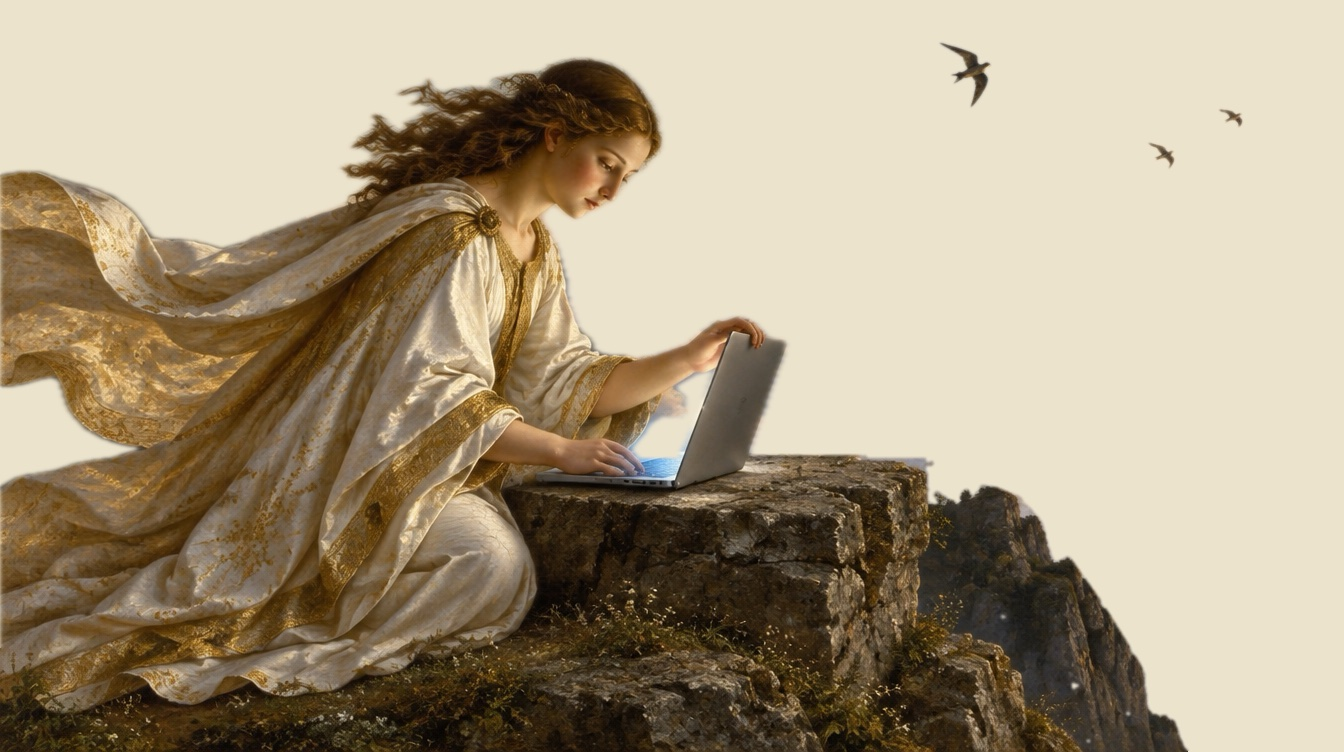
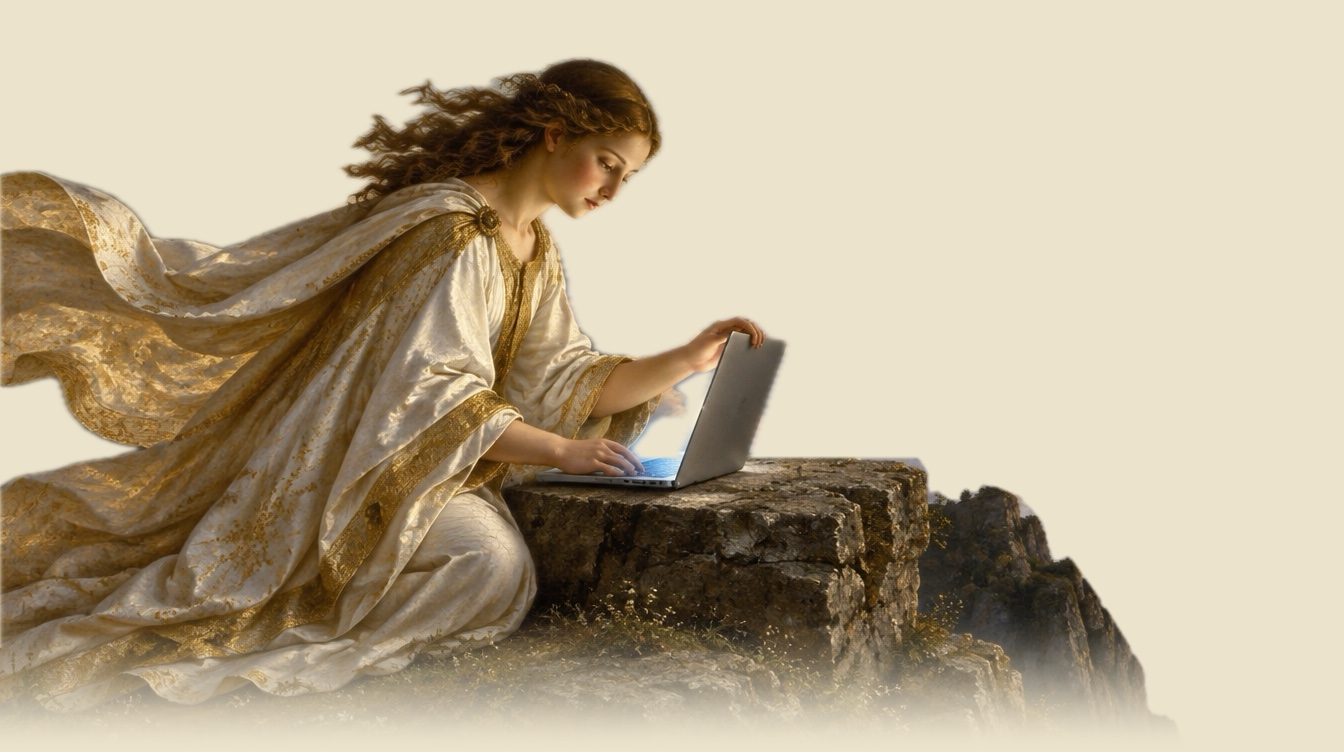
Start: the two swallows fly; the foot of the cut-out fades into the paper
The swallows are no longer baked into the picture: two of the site's animated swallows (flapping, rising
with the scroll at half speed) fly over it. The mask's pinholes in the cliff are filled and the bottom
of the cut-out fades into the paper instead of ending on a straight line; the steps follow close under it.

diff --git a/industries.html b/industries.html
@@ -15,7 +15,7 @@
 <link rel="preconnect" href="https://fonts.googleapis.com">
 <link rel="preconnect" href="https://fonts.gstatic.com" crossorigin>
 <link rel="stylesheet" href="https://fonts.googleapis.com/css2?family=Inter+Tight:wght@500;600;700&family=Inter:wght@400;500;600&family=Instrument+Serif:ital@0;1&family=Pinyon+Script&display=swap">
-<link rel="stylesheet" href="assets/css/style.css?v=e8194b63">
+<link rel="stylesheet" href="assets/css/style.css?v=013b810d">
 <link rel="stylesheet" href="assets/css/motion.css?v=246abe92">
 <script>try{if('scrollRestoration' in history)history.scrollRestoration='manual';}catch(e){}</script>
 
@@ -260,7 +260,7 @@
     <div class="ch__end"><span class="rule"></span><a class="back" href="#top">Back to top</a></div>
   </div>
 </section><section class="ch ch--cut" id="start" data-ch data-ink aria-labelledby="start-t">
-  <div class="ch__bg" data-ch-bg><img class="paint" src="assets/img/paint/summit-cut.jpg?v=df9d4488" alt="A Renaissance woman in a gold-trimmed cloak working on a laptop on a rock ledge, swallows flying above" width="1344" height="752" loading="lazy" decoding="async"></div>
+  <div class="ch__bg" data-ch-bg><img class="paint" src="assets/img/paint/summit-cut.jpg?v=627cc629" alt="A Renaissance woman in a gold-trimmed cloak working on a laptop on a rock ledge, swallows flying above" width="1344" height="752" loading="lazy" decoding="async"><div class="flock" aria-hidden="true"><span class="bird" style="left:73%;top:12%;width:108px;--fd:0s" data-bird="0.5"><img class="bird__up" src="assets/img/birds/swallow-up.png?v=240c85b9" alt="" width="420" height="420" loading="lazy" decoding="async"><img class="bird__down" src="assets/img/birds/swallow-down.png?v=91aaacf5" alt="" width="420" height="420" loading="lazy" decoding="async"></span><span class="bird" style="left:84%;top:21%;width:69px;--fd:0.18s" data-bird="0.5"><img class="bird__up" src="assets/img/birds/swallow-up.png?v=240c85b9" alt="" width="420" height="420" loading="lazy" decoding="async"><img class="bird__down" src="assets/img/birds/swallow-down.png?v=91aaacf5" alt="" width="420" height="420" loading="lazy" decoding="async"></span></div></div>
   <div class="ch__open">
     <h2 class="h1 ch__word" id="start-t" data-word>Start</h2>
     <p class="n1 ch__lead"><span class="swash">T</span>ell us what you need. We'll look at your current site, tell you what we'd change, and say honestly whether we're the right fit.</p>

diff --git a/projects.html b/projects.html
@@ -15,7 +15,7 @@
 <link rel="preconnect" href="https://fonts.googleapis.com">
 <link rel="preconnect" href="https://fonts.gstatic.com" crossorigin>
 <link rel="stylesheet" href="https://fonts.googleapis.com/css2?family=Inter+Tight:wght@500;600;700&family=Inter:wght@400;500;600&family=Instrument+Serif:ital@0;1&family=Pinyon+Script&display=swap">
-<link rel="stylesheet" href="assets/css/style.css?v=e8194b63">
+<link rel="stylesheet" href="assets/css/style.css?v=013b810d">
 <link rel="stylesheet" href="assets/css/motion.css?v=246abe92">
 <script>try{if('scrollRestoration' in history)history.scrollRestoration='manual';}catch(e){}</script>
 
@@ -177,7 +177,7 @@
     <div class="ch__end"><span class="rule"></span><a class="back" href="#top">Back to top</a></div>
   </div>
 </section><section class="ch ch--cut" id="start" data-ch data-ink aria-labelledby="start-t">
-  <div class="ch__bg" data-ch-bg><img class="paint" src="assets/img/paint/summit-cut.jpg?v=df9d4488" alt="A Renaissance woman in a gold-trimmed cloak working on a laptop on a rock ledge, swallows flying above" width="1344" height="752" loading="lazy" decoding="async"></div>
+  <div class="ch__bg" data-ch-bg><img class="paint" src="assets/img/paint/summit-cut.jpg?v=627cc629" alt="A Renaissance woman in a gold-trimmed cloak working on a laptop on a rock ledge, swallows flying above" width="1344" height="752" loading="lazy" decoding="async"><div class="flock" aria-hidden="true"><span class="bird" style="left:73%;top:12%;width:108px;--fd:0s" data-bird="0.5"><img class="bird__up" src="assets/img/birds/swallow-up.png?v=240c85b9" alt="" width="420" height="420" loading="lazy" decoding="async"><img class="bird__down" src="assets/img/birds/swallow-down.png?v=91aaacf5" alt="" width="420" height="420" loading="lazy" decoding="async"></span><span class="bird" style="left:84%;top:21%;width:69px;--fd:0.18s" data-bird="0.5"><img class="bird__up" src="assets/img/birds/swallow-up.png?v=240c85b9" alt="" width="420" height="420" loading="lazy" decoding="async"><img class="bird__down" src="assets/img/birds/swallow-down.png?v=91aaacf5" alt="" width="420" height="420" loading="lazy" decoding="async"></span></div></div>
   <div class="ch__open">
     <h2 class="h1 ch__word" id="start-t" data-word>Start</h2>
     <p class="n1 ch__lead"><span class="swash">T</span>ell us what you need. We'll look at your current site, tell you what we'd change, and say honestly whether we're the right fit.</p>

diff --git a/assets/css/style.css b/assets/css/style.css
@@ -384,7 +384,7 @@ html.ui-over-paint[data-ui] .pill--hdr { background: var(--white); color: var(--
 #start.ch--cut .ch__word, #start.ch--cut .ch__lead { color: var(--ink); text-shadow: none; }
 #start.ch--cut .ch__word { font-size: clamp(3.5rem, 1rem + 5vw, 8rem); }
 #start.ch--cut .ch__lead { font-size: clamp(20px, .8rem + .9vw, 30px); max-width: 26ch; margin-top: 16px; }
-@media (min-width: 900px) { #start.ch--cut .ch__open { justify-content: flex-start; padding: 27svh 3vw 40px 66vw; } }
+@media (min-width: 900px) { #start.ch--cut .ch__open { justify-content: flex-start; padding: 27svh 3vw 40px 66vw; } #start.ch--cut .ch__body { padding-top: 0; margin-top: -4svh; } }   /* the picture's foot fades into the paper; the steps follow close under it */
 @media (max-width: 899px) {
   #start.ch--cut .ch__bg { height: 64svh; margin-bottom: 0; }
   #start.ch--cut .ch__open { height: auto; padding-top: 12px; padding-bottom: 8px; }
@@ -982,6 +982,7 @@ html:not(.js) .fan__card:hover { transform: rotate(var(--r)) translateY(-10px); 
   .calls__cord { display: none; }
   .calls__h { font-size: clamp(48px, 15vw, 64px); max-width: 6.5ch; }
   .bird { scale: .7; } .bird:nth-child(1) { left: 52% !important; } .bird:nth-child(2) { left: 34% !important; top: 10% !important; }
+  #start .bird:nth-child(1) { left: 64% !important; top: 15% !important; } #start .bird:nth-child(2) { left: 82% !important; top: 25% !important; }   /* phones: the top-right corner, clear of her head */
   .srp { padding: 14px; border-radius: 14px; }
   .srp__ov { grid-template-columns: minmax(0, 1fr) 84px; align-items: start; padding: 14px; gap: 12px; }
   .srp__thumb { aspect-ratio: 1; }

diff --git a/index.html b/index.html
@@ -15,7 +15,7 @@
 <link rel="preconnect" href="https://fonts.googleapis.com">
 <link rel="preconnect" href="https://fonts.gstatic.com" crossorigin>
 <link rel="stylesheet" href="https://fonts.googleapis.com/css2?family=Inter+Tight:wght@500;600;700&family=Inter:wght@400;500;600&family=Instrument+Serif:ital@0;1&family=Pinyon+Script&display=swap">
-<link rel="stylesheet" href="assets/css/style.css?v=e8194b63">
+<link rel="stylesheet" href="assets/css/style.css?v=013b810d">
 <link rel="stylesheet" href="assets/css/motion.css?v=246abe92">
 <script>try{if('scrollRestoration' in history)history.scrollRestoration='manual';}catch(e){}</script>
 <script type="application/ld+json">{"@context":"https://schema.org","@type":"ProfessionalService","name":"Summit Studios","url":"https://www.summitxstudio.com/","email":"team@summitxstudio.com","description":"Premium web design, AI receptionists, WhatsApp automation and custom software for engineering firms, clinics and trades worldwide.","areaServed":"Worldwide"}</script>

diff --git a/404.html b/404.html
@@ -15,7 +15,7 @@
 <link rel="preconnect" href="https://fonts.googleapis.com">
 <link rel="preconnect" href="https://fonts.gstatic.com" crossorigin>
 <link rel="stylesheet" href="https://fonts.googleapis.com/css2?family=Inter+Tight:wght@500;600;700&family=Inter:wght@400;500;600&family=Instrument+Serif:ital@0;1&family=Pinyon+Script&display=swap">
-<link rel="stylesheet" href="/assets/css/style.css?v=e8194b63">
+<link rel="stylesheet" href="/assets/css/style.css?v=013b810d">
 <link rel="stylesheet" href="/assets/css/motion.css?v=246abe92">
 <script>try{if('scrollRestoration' in history)history.scrollRestoration='manual';}catch(e){}</script>
 

diff --git a/contact.html b/contact.html
@@ -15,7 +15,7 @@
 <link rel="preconnect" href="https://fonts.googleapis.com">
 <link rel="preconnect" href="https://fonts.gstatic.com" crossorigin>
 <link rel="stylesheet" href="https://fonts.googleapis.com/css2?family=Inter+Tight:wght@500;600;700&family=Inter:wght@400;500;600&family=Instrument+Serif:ital@0;1&family=Pinyon+Script&display=swap">
-<link rel="stylesheet" href="assets/css/style.css?v=e8194b63">
+<link rel="stylesheet" href="assets/css/style.css?v=013b810d">
 <link rel="stylesheet" href="assets/css/motion.css?v=246abe92">
 <script>try{if('scrollRestoration' in history)history.scrollRestoration='manual';}catch(e){}</script>
 

diff --git a/get-started.html b/get-started.html
@@ -15,7 +15,7 @@
 <link rel="preconnect" href="https://fonts.googleapis.com">
 <link rel="preconnect" href="https://fonts.gstatic.com" crossorigin>
 <link rel="stylesheet" href="https://fonts.googleapis.com/css2?family=Inter+Tight:wght@500;600;700&family=Inter:wght@400;500;600&family=Instrument+Serif:ital@0;1&family=Pinyon+Script&display=swap">
-<link rel="stylesheet" href="assets/css/style.css?v=e8194b63">
+<link rel="stylesheet" href="assets/css/style.css?v=013b810d">
 <link rel="stylesheet" href="assets/css/motion.css?v=246abe92">
 <script>try{if('scrollRestoration' in history)history.scrollRestoration='manual';}catch(e){}</script>
 

diff --git a/studio.html b/studio.html
@@ -15,7 +15,7 @@
 <link rel="preconnect" href="https://fonts.googleapis.com">
 <link rel="preconnect" href="https://fonts.gstatic.com" crossorigin>
 <link rel="stylesheet" href="https://fonts.googleapis.com/css2?family=Inter+Tight:wght@500;600;700&family=Inter:wght@400;500;600&family=Instrument+Serif:ital@0;1&family=Pinyon+Script&display=swap">
-<link rel="stylesheet" href="assets/css/style.css?v=e8194b63">
+<link rel="stylesheet" href="assets/css/style.css?v=013b810d">
 <link rel="stylesheet" href="assets/css/motion.css?v=246abe92">
 <script>try{if('scrollRestoration' in history)history.scrollRestoration='manual';}catch(e){}</script>
 

diff --git a/_build/build.py b/_build/build.py
@@ -511,11 +511,14 @@ SWALLOW = ('''<symbol id="swallow" viewBox="0 0 100 70">
 FLOCK = [(66, 8, 112, 0, 1.0), (60, 11.5, 76, .18, 1.0)]   # a pair, flying together
 
 
-def flock():
+FLOCK_START = [(73, 12, 72, 0, .5), (84, 21, 46, .18, .5)]   # rise at half speed so they stay in view   # Start: two swallows in the open sky above 'Start' (% of the picture)
+
+
+def flock(items=None):
     """Realistic swallows behind a chapter: two wing poses swap to flap, and the flock
     rises up and to the right as you scroll (motion.js birds())."""
     b = ''.join(f'''<span class="bird" style="left:{x}%;top:{y}%;width:{round(w * 1.5)}px;--fd:{d}s" data-bird="{v}"><img class="bird__up" src="assets/img/birds/swallow-up.png" alt="" width="420" height="420" loading="lazy" decoding="async"><img class="bird__down" src="assets/img/birds/swallow-down.png" alt="" width="420" height="420" loading="lazy" decoding="async"></span>'''
-                for x, y, w, d, v in FLOCK)
+                for x, y, w, d, v in (items or FLOCK))
     return f'<div class="flock" aria-hidden="true">{b}</div>'
 
 
@@ -838,7 +841,8 @@ def chapter_start():
     # the lady with the laptop, her rock and the swallows, cut out onto the page's paper (like the AI Concierge)
     return chapter('start', 'Start', 'summit-cut', 'A Renaissance woman in a gold-trimmed cloak working on a laptop on a rock ledge, swallows flying above',
                    "Tell us what you need. We'll look at your current site, tell you what we'd change, and say honestly whether we're the right fit.", body, cut=True
-                   ).replace(' id="start" data-ch ', ' id="start" data-ch data-ink ', 1)   # all on paper: ink header throughout
+                   ).replace(' id="start" data-ch ', ' id="start" data-ch data-ink ', 1  # all on paper: ink header throughout
+                   ).replace('decoding="async"></div>\n  <div class="ch__open">', 'decoding="async">' + flock(FLOCK_START) + '</div>\n  <div class="ch__open">', 1)   # the two swallows fly over the picture
 
 
 UP_ARROW = '<svg viewBox="0 0 24 24" width="15" height="15"><path d="M7 17 17 7M7 7h10v10" fill="none" stroke="currentColor" stroke-width="2" stroke-linecap="round" stroke-linejoin="round"/></svg>'
